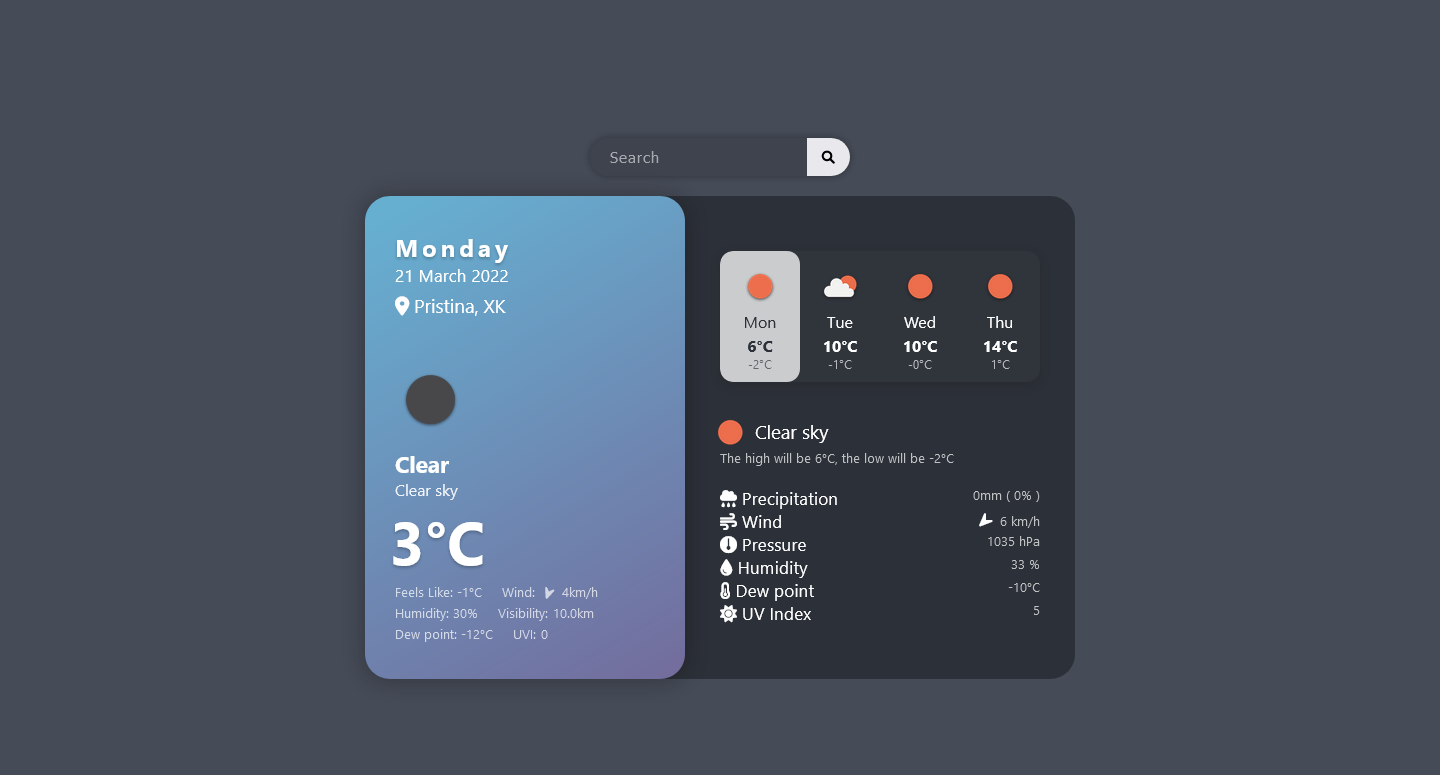
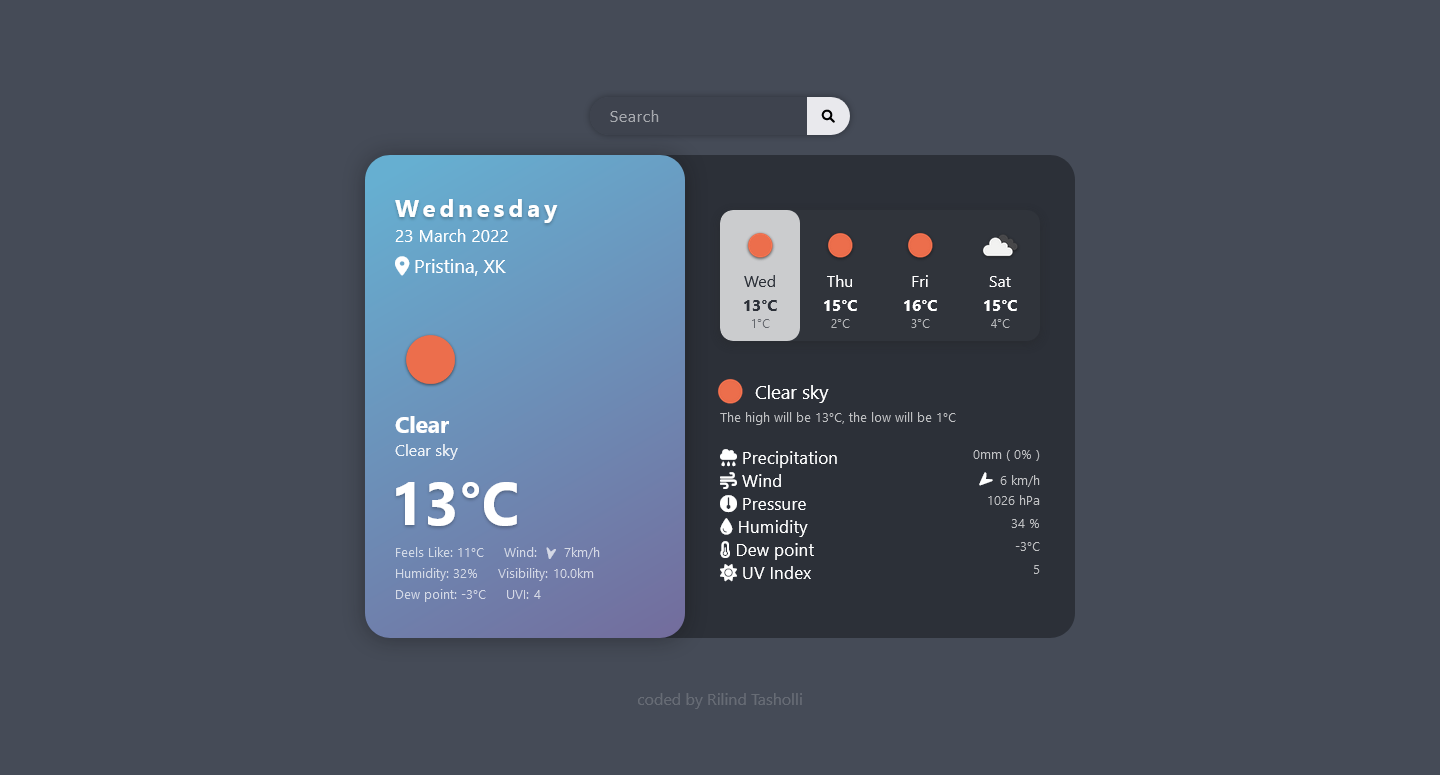
forecast day on-click display weather details for that specific day

Changed region(s): [[0.25, 0.1239, 0.75, 0.929], [0.6875, 0.3097, 0.7188, 0.4645], [0.6562, 0.5884, 0.7188, 0.7123]]

diff --git a/main.js b/main.js
@@ -1,6 +1,14 @@
 const apiKey = '5ad5366ef19803003112548fec639f07';
 let defaultCity = localStorage.getItem('defaultCity') || 'Prishtina'
 
+let result = {
+    locationName: '',
+    countryCode: '',
+    lon: '',
+    lat: '',
+    weatherData: null
+}
+
 search(defaultCity);
 
 document.querySelector('#search').addEventListener('keypress', function(e){
@@ -24,12 +32,12 @@ function showError(){
 
 function search(searchString){
     
-    getData(searchString).then((response)=>{
+    getData(searchString).then(()=>{
         document.querySelector('.weather-container').style.visibility = 'unset';
 
-        displayCurrentData(response);
-        displayForecast(response.weatherData)
-        displayDayDetailsData(response.weatherData.daily[0]);
+        displayCurrentData(result);
+        displayForecast(result.weatherData)
+        displayDayDetailsData(result.weatherData.daily[0]);
 
         document.querySelector('#search').value = '';
         localStorage.setItem('defaultCity', searchString);
@@ -42,14 +50,6 @@ function search(searchString){
 }
 
 async function getData(cityInput){
-
-    let result = {
-        locationName: '',
-        countryCode: '',
-        lon: '',
-        lat: '',
-        weatherData: null
-    }
 
     await fetch(`https://api.openweathermap.org/data/2.5/weather?q=${cityInput}&units=metric&appid=${apiKey}`)
     .then(response => response.json())
@@ -68,7 +68,6 @@ async function getData(cityInput){
         result.weatherData = data;
     });
 
-    return result;
 }
 
 function displayDate(date){
@@ -97,15 +96,10 @@ function displayCurrentData(data){
     
 }
 
-function displayForecast(data){
-    let currentForecast = document.querySelectorAll('.forecast .item');
-    currentForecast.forEach(day => {
-        day.remove()
-    })
-
+function getForecastDays(data){
     let date = new Date();
-    date = changeTimezone(date, data.timezone)
-    
+    date = changeTimezone(date, data.timezone);
+
     var days = ['Sun','Mon','Tue','Wed','Thu','Fri','Sat'];
     let forecastDays = [];
     let day = null;
@@ -117,14 +111,25 @@ function displayForecast(data){
         day.dayName = days[count++]
         forecastDays.push(day)
     }
+    
+    return forecastDays;
+}
+
+function displayForecast(data){
+    let currentForecast = document.querySelectorAll('.forecast .item');
+    currentForecast.forEach(day => {
+        day.remove()
+    })
+    
+    let forecastDays = getForecastDays(data);
 
     let forecast = document.querySelector('.forecast');
   
 
-    forecastDays.forEach(day => {
+    forecastDays.forEach((day, i) => {
         forecast.insertAdjacentHTML('beforeend', 
         `
-        <div class="item">
+        <div class="item ${i == 0 ? 'active' : ''}" onclick="handleDaySelect(${i})">
             <img src="http://openweathermap.org/img/wn/${day.weather[0].icon}@2x.png" alt="">
             <span class="day">${day.dayName}</span>
             <span class="max-temp">${day.temp.max.toFixed()}°C</span>
@@ -147,6 +152,18 @@ function displayDayDetailsData(data){
     document.querySelector('.weather-details .pressure .info-value').innerText = `${data.pressure} hPa`;
     document.querySelector('.weather-details .dew-point .info-value').innerText = `${data.dew_point.toFixed()}°C`;
     document.querySelector('.weather-details .uv .info-value').innerText = data.uvi.toFixed();
+}
+
+function handleDaySelect(i){
+    let currentForecast = document.querySelectorAll('.forecast .item');
+  
+    currentForecast.forEach(day => {
+        day.classList.remove('active');
+    })
+
+    currentForecast[i].classList.add('active');
+
+    displayDayDetailsData(result.weatherData.daily[i]);
 }
 
 function changeTimezone(date, ianatz) {

diff --git a/style.css b/style.css
@@ -243,6 +243,8 @@ body {
   justify-content: center;
   align-items: center;
   padding: 10px 15px;
+  border-radius: inherit;
+  transition: 0.3s;
   /* background-color: rgb(92, 91, 89); */
   /* margin: 1px; */
   /* flex-grow: 1; */
@@ -262,15 +264,16 @@ body {
   opacity: 0.65;
 }
 
-.forecast > div:first-child {
+.forecast .item:hover {
+  cursor: pointer;
+  background-color: rgba(167, 167, 172, 0.089);
+}
+
+.forecast .active,
+.forecast .active:hover {
   background-color: rgba(255, 255, 255, 0.75);
   color: rgb(44, 48, 56);
   border-radius: inherit;
-}
-
-.active {
-  background-color: rgba(255, 255, 255, 0.966);
-  color: rgb(44, 48, 56);
 }
 
 /* ------- footer -------*/

diff --git a/README.md b/README.md
@@ -7,6 +7,7 @@ Fun side project made with vanilla JavaScript
 ### Screenshot
 
 ![](https://raw.github.com/rilindtasholli/weather-app/main/screenshots/prishtina.png)
+![](https://raw.github.com/rilindtasholli/weather-app/main/screenshots/new-york.png)
 ![](https://raw.github.com/rilindtasholli/weather-app/main/screenshots/barcelona.png)
 ![](https://raw.github.com/rilindtasholli/weather-app/main/screenshots/alaska.png)
 ![](https://raw.github.com/rilindtasholli/weather-app/main/screenshots/tokyo.png)
